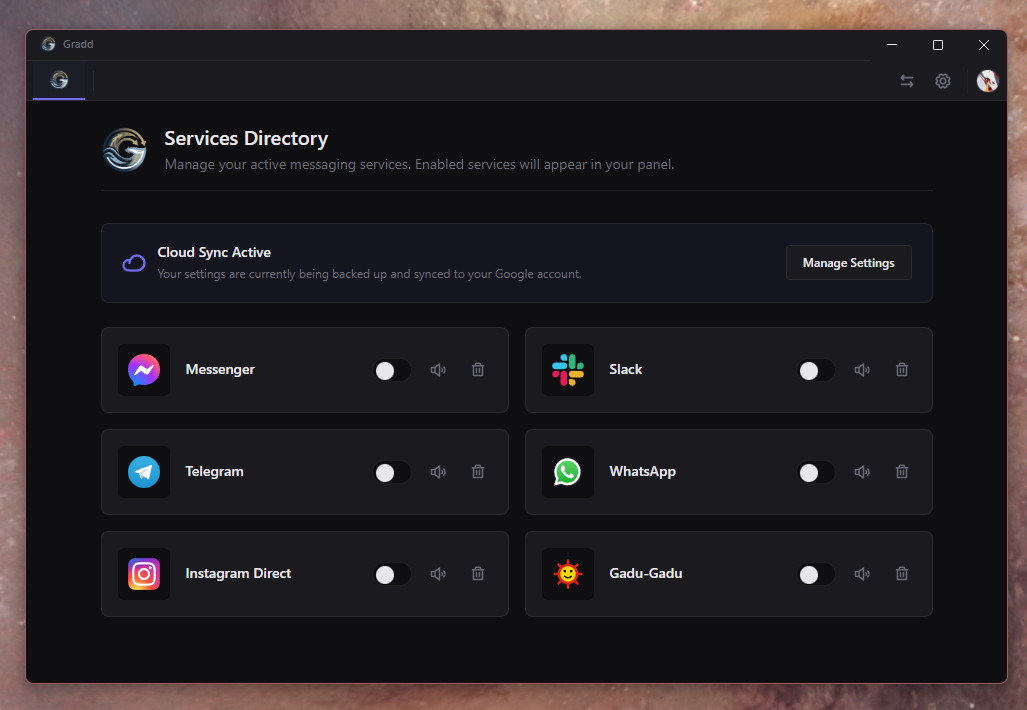
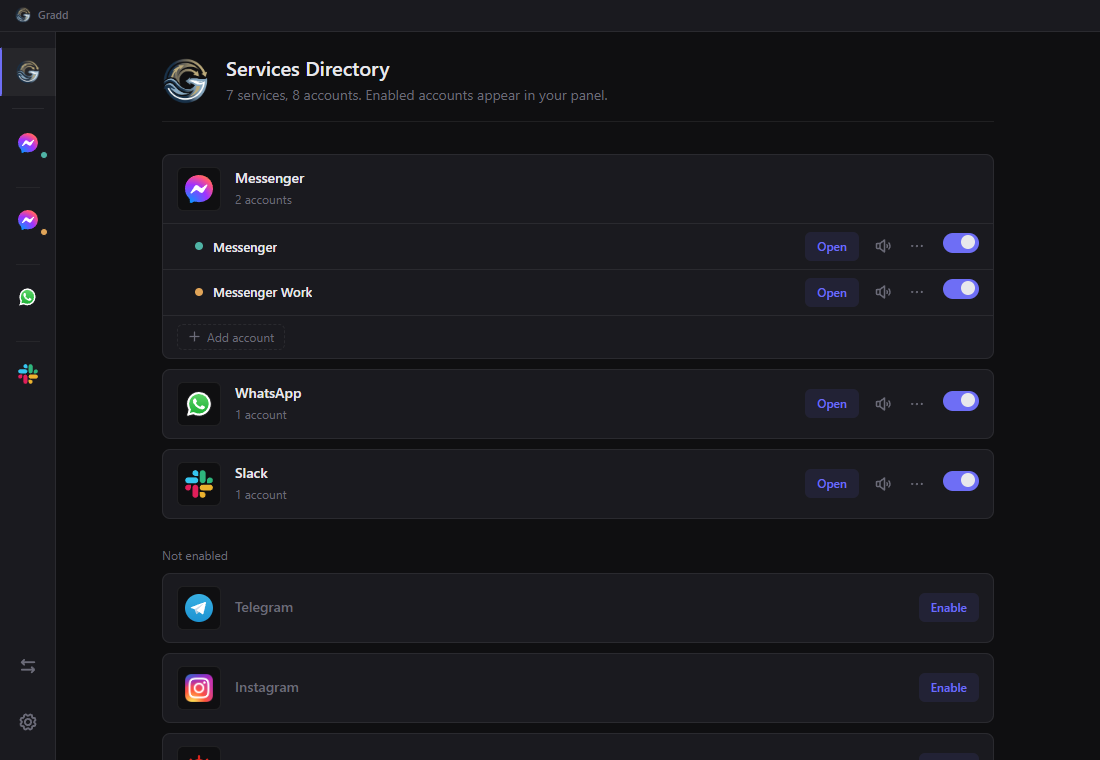
docs: refresh README screenshots for 1.5.1

diff --git a/README.md b/README.md
@@ -18,7 +18,9 @@ Gradd is a Windows desktop application that aggregates multiple messaging platfo
 ## Screenshots
 
 <div align="center">
-  <img src="./docs/screenshot-services.png" alt="Services Directory" width="80%" />
+  <img src="./docs/screenshot-services.png" alt="Services Directory with multiple accounts" width="80%" />
+  <br /><br />
+  <img src="./docs/screenshot-settings.png" alt="Settings with Save RAM" width="80%" />
   <br /><br />
 </div>
 
